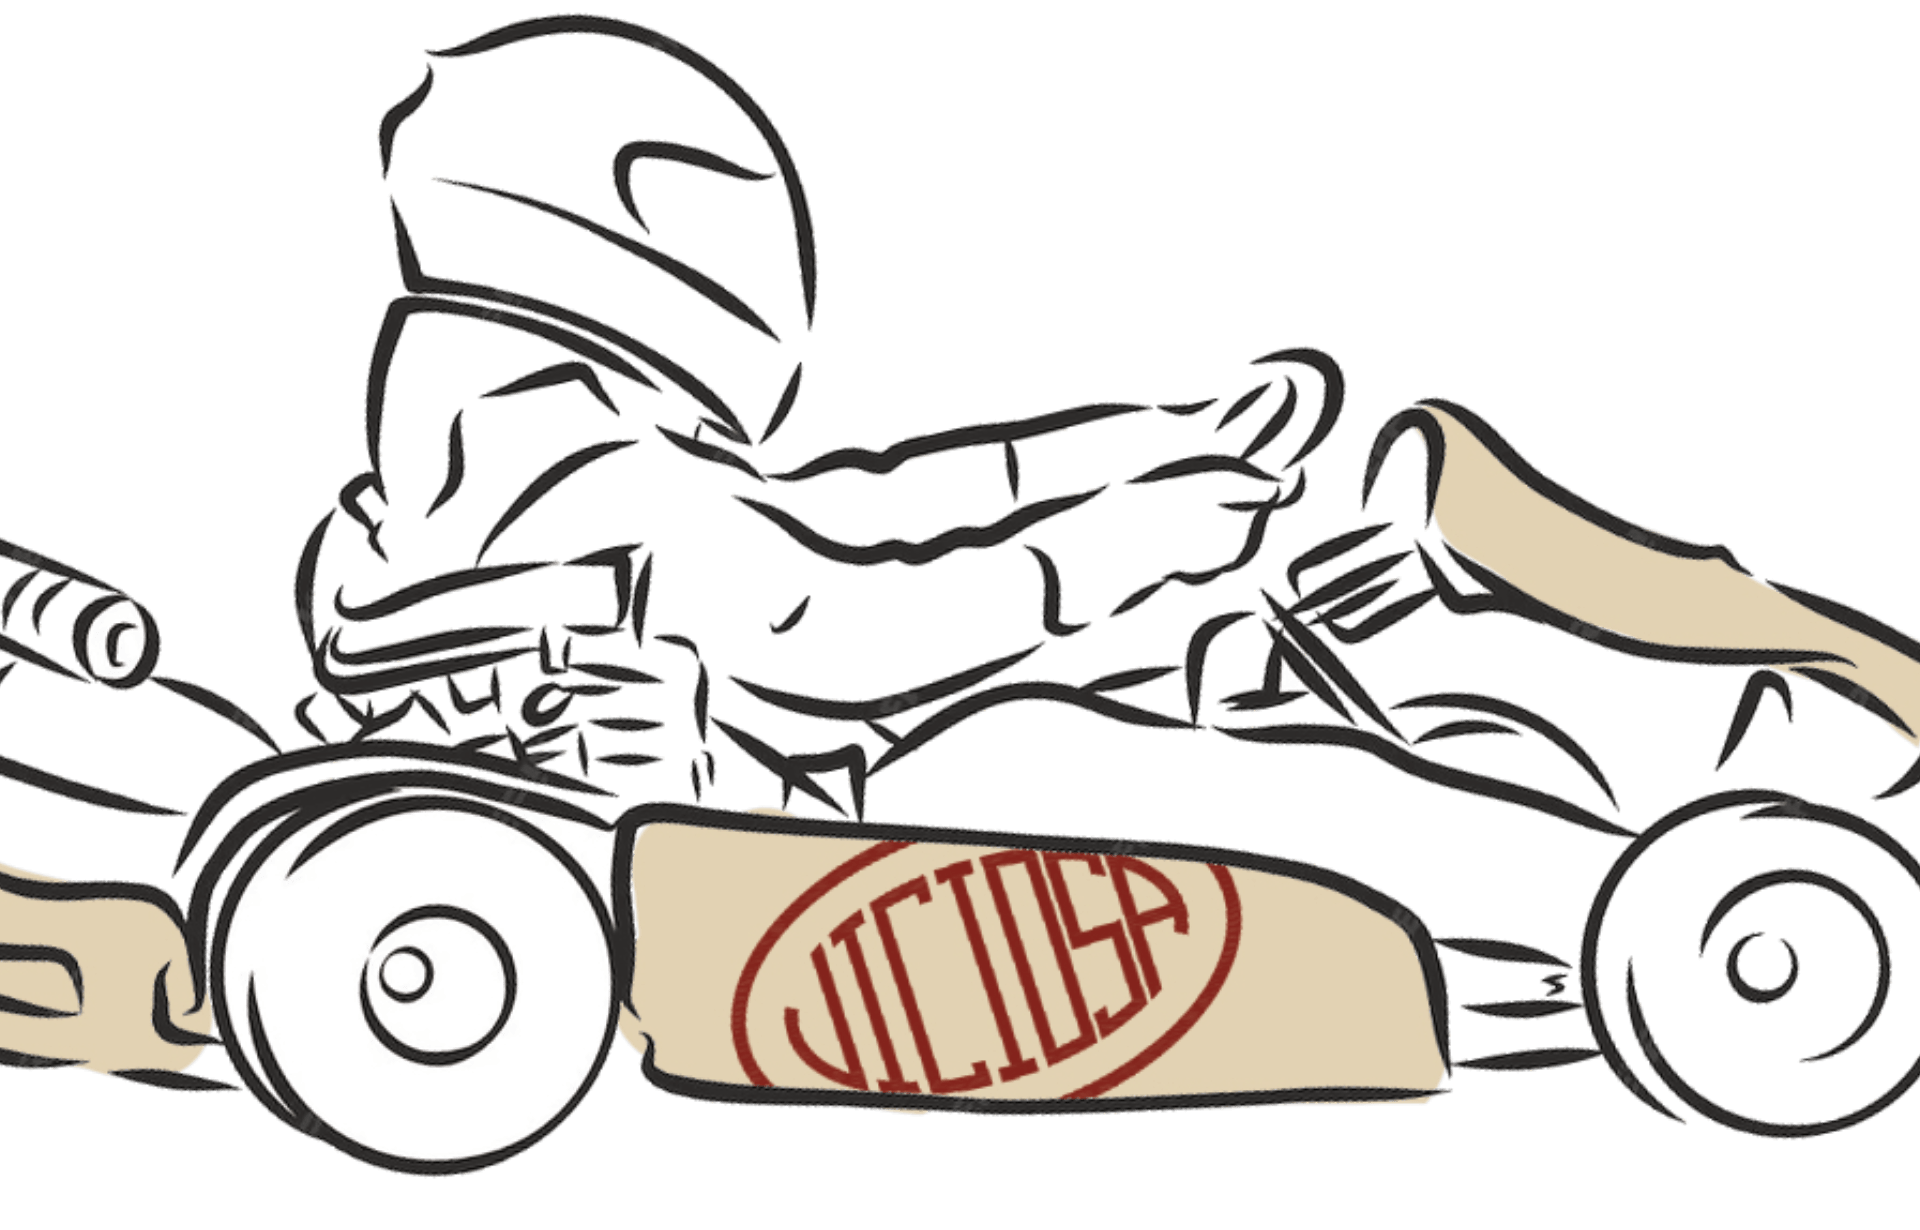
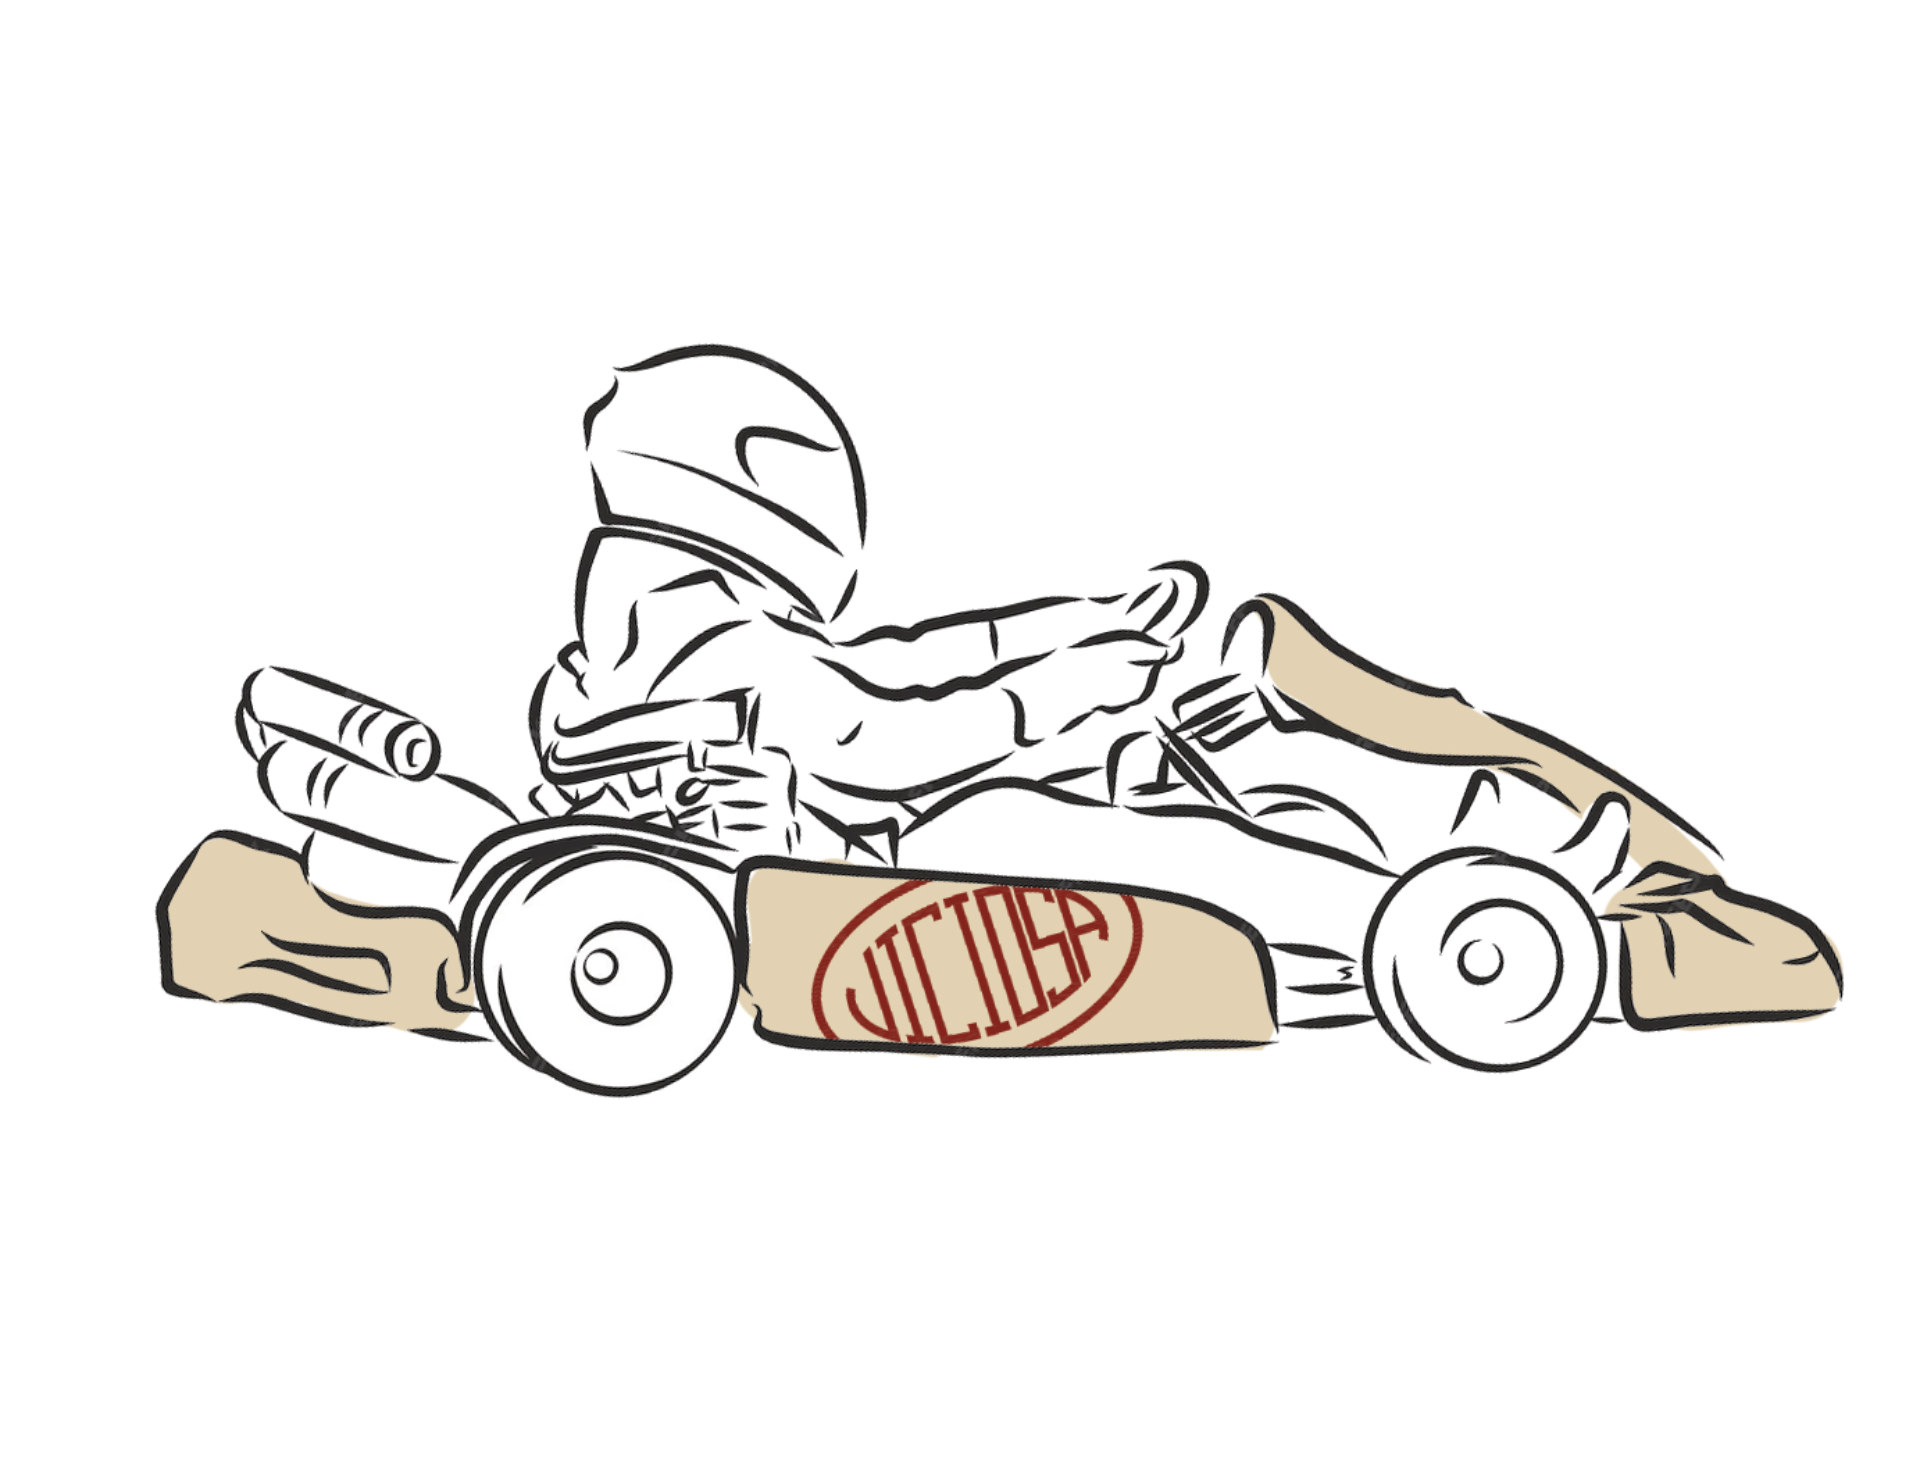
arregla imagen V karting

diff --git a/src/index.css b/src/index.css
@@ -1200,6 +1200,10 @@ a {
     linear-gradient(145deg, #dad3c6, #f2eee7 60%, #cfc6b7);
 }
 
+.projects-card--v-karting .projects-card-image {
+  background: transparent;
+}
+
 .projects-card-image img {
   width: 100%;
   height: 100%;
